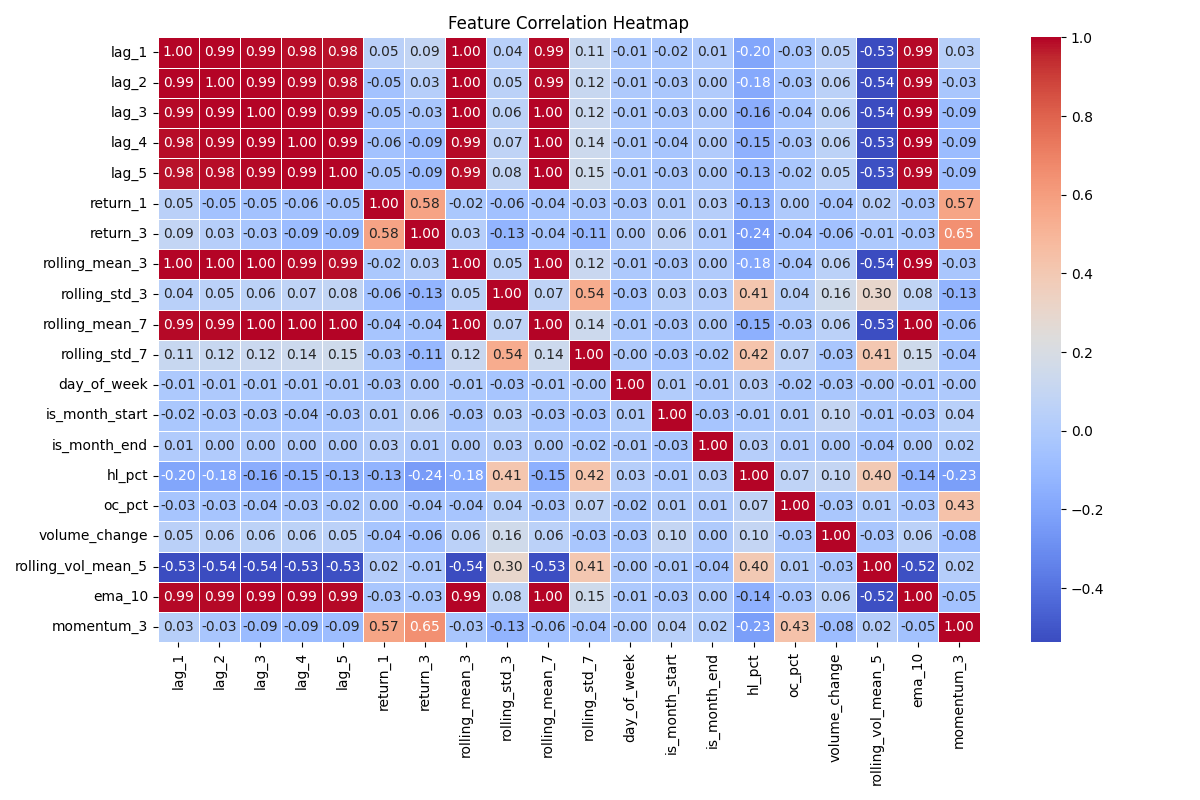
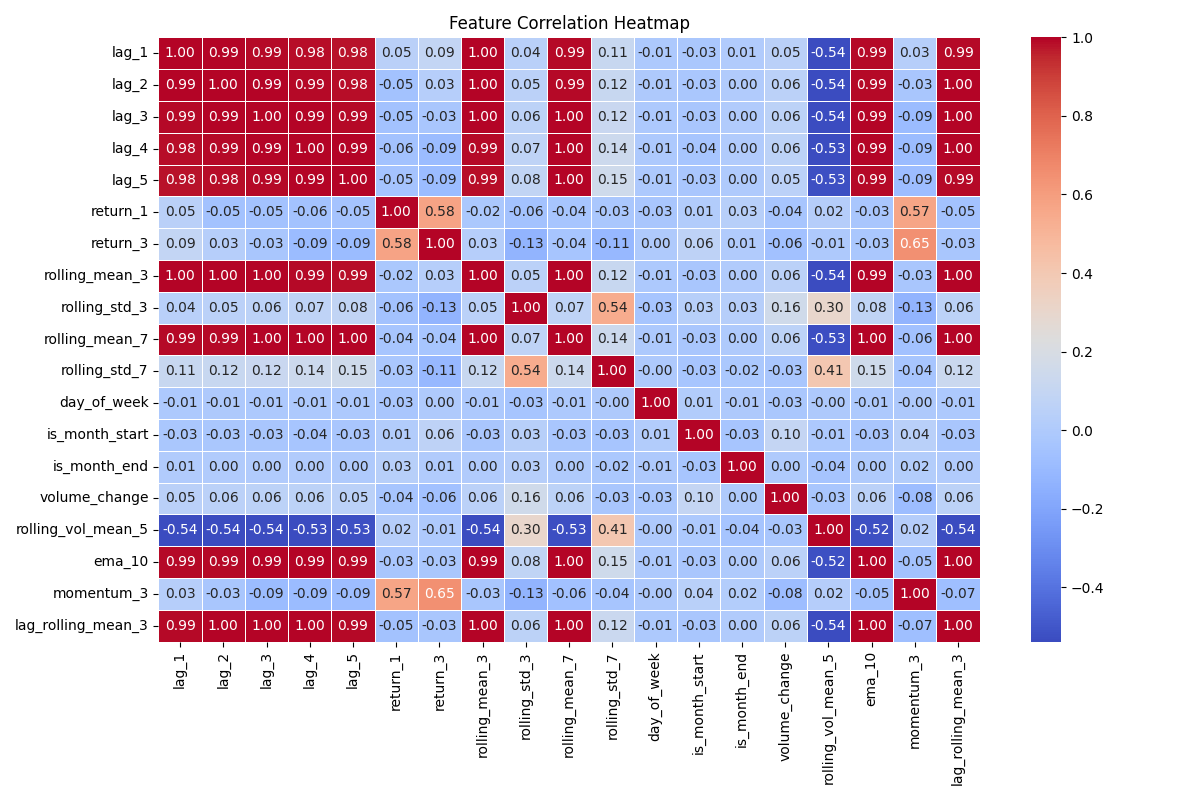
Run 8 - Best model so far

diff --git a/src/eda.py b/src/eda.py
@@ -36,7 +36,7 @@ def feature_correlation():
     df = pd.read_csv(file_path)
     logger.debug("Data loaded successfully from: %s", file_path)
 
-    X = df[["lag_1", "lag_2", "lag_3", "lag_4", "lag_5", "return_1", "return_3", "rolling_mean_3", "rolling_std_3", "rolling_mean_7", "rolling_std_7", "day_of_week", "is_month_start", "is_month_end", "hl_pct", "oc_pct", "volume_change", "rolling_vol_mean_5", "ema_10", "momentum_3"]]
+    X = df[["lag_1", "lag_2", "lag_3", "lag_4", "lag_5", "return_1", "return_3", "rolling_mean_3", "rolling_std_3", "rolling_mean_7", "rolling_std_7", "day_of_week", "is_month_start", "is_month_end", "volume_change", "rolling_vol_mean_5", "ema_10", "momentum_3", "lag_rolling_mean_3"]]
 
     # Compute correlation matrix
     corr_matrix = X.corr()
@@ -54,7 +54,7 @@ def feature_correlation():
     with mlflow.start_run():
         # Log the image
         mlflow.log_artifact("artifacts/correlation_heatmap.png")
-        mlflow.set_tag("Run", "7")
+        mlflow.set_tag("Run", "8")
         mlflow.log_param("num_features", X.shape[1])
 
 if __name__ == "__main__":

diff --git a/src/feature_engineering.py b/src/feature_engineering.py
@@ -53,12 +53,13 @@ def new_features() -> None:
         df["day_of_week"] = df["Date"].dt.dayofweek           # 0 = Monday, ..., 4 = Friday
         df["is_month_start"] = df["Date"].dt.is_month_start.astype(int)
         df["is_month_end"] = df["Date"].dt.is_month_end.astype(int)
-        df["hl_pct"] = (df["High"] - df["Low"]) / df["Close"]     # High-Low % range
-        df["oc_pct"] = (df["Close"] - df["Open"]) / df["Open"]    # Open-Close return
+        # df["hl_pct"] = (df["High"] - df["Low"]) / df["Close"]     # High-Low % range
+        # df["oc_pct"] = (df["Close"] - df["Open"]) / df["Open"]    # Open-Close return
         df["volume_change"] = df["Volume"].pct_change().shift(1)
         df["rolling_vol_mean_5"] = df["Volume"].shift(1).rolling(5).mean()
         df["ema_10"] = df["Close"].ewm(span=10).mean().shift(1)
         df["momentum_3"] = df["Close"] - df["Close"].shift(3)
+        df["lag_rolling_mean_3"] = df["rolling_mean_3"].shift(1)
 
 
         df.dropna(inplace=True) #Dropping NaN values

diff --git a/src/recent_stock_predictions.py b/src/recent_stock_predictions.py
@@ -38,7 +38,7 @@ def predict_last_15_days():
         model = joblib.load('models/best_model.pkl')
         logger.debug("Model loaded successfully")
 
-        X = df_last_15[["lag_1", "lag_2", "lag_3", "lag_4", "lag_5", "return_1", "return_3", "rolling_mean_3", "rolling_std_3", "rolling_mean_7", "rolling_std_7", "day_of_week", "is_month_start", "is_month_end", "hl_pct", "oc_pct", "volume_change", "rolling_vol_mean_5", "ema_10", "momentum_3"]]
+        X = df_last_15[["lag_1", "lag_2", "lag_3", "lag_4", "lag_5", "return_1", "return_3", "rolling_mean_3", "rolling_std_3", "rolling_mean_7", "rolling_std_7", "day_of_week", "is_month_start", "is_month_end", "volume_change", "rolling_vol_mean_5", "ema_10", "momentum_3", "lag_rolling_mean_3"]]
         y_pred = model.predict(X)
 
         log_file = "monitoring/predictions_log.csv"

diff --git a/src/data_preprocess.py b/src/data_preprocess.py
@@ -36,7 +36,7 @@ def split_dataset() -> None:
 
         train_size = int(len(df) * 0.8)
 
-        X = df[["lag_1", "lag_2", "lag_3", "lag_4", "lag_5", "return_1", "return_3", "rolling_mean_3", "rolling_std_3", "rolling_mean_7", "rolling_std_7", "day_of_week", "is_month_start", "is_month_end", "hl_pct", "oc_pct", "volume_change", "rolling_vol_mean_5", "ema_10", "momentum_3"]]
+        X = df[["lag_1", "lag_2", "lag_3", "lag_4", "lag_5", "return_1", "return_3", "rolling_mean_3", "rolling_std_3", "rolling_mean_7", "rolling_std_7", "day_of_week", "is_month_start", "is_month_end", "volume_change", "rolling_vol_mean_5", "ema_10", "momentum_3", "lag_rolling_mean_3"]]
         y = df["Close"]
 
         X_train, X_test = X.iloc[:train_size], X.iloc[train_size:]

diff --git a/src/model_evaluation.py b/src/model_evaluation.py
@@ -51,7 +51,7 @@ def evaluate_model():
             mlflow.log_metric('MSE', mse)
             mlflow.log_metric('R2', r2)
 
-            mlflow.set_tag("Run", "7")
+            mlflow.set_tag("Run", "8")
     except Exception as e:
         logger.error("Error occurred while evaluating the model: %s", e)
         raise

diff --git a/src/monitoring_plot.py b/src/monitoring_plot.py
@@ -21,7 +21,7 @@ def plot_predictions():
         plt.savefig("monitoring/pred_vs_actual.png")
         # plt.show()
         mlflow.log_artifact("monitoring/pred_vs_actual.png")
-        mlflow.set_tag("Run", "7")
+        mlflow.set_tag("Run", "8")
 
     
 

diff --git a/src/hyperparameter_tuning.py b/src/hyperparameter_tuning.py
@@ -107,7 +107,7 @@ def tune_model():
         # Log the best model
         mlflow.sklearn.log_model(model, "best_model")
     
-        mlflow.set_tag("Run", "7")
+        mlflow.set_tag("Run", "8")
 
 if __name__ == "__main__":
     tune_model()
